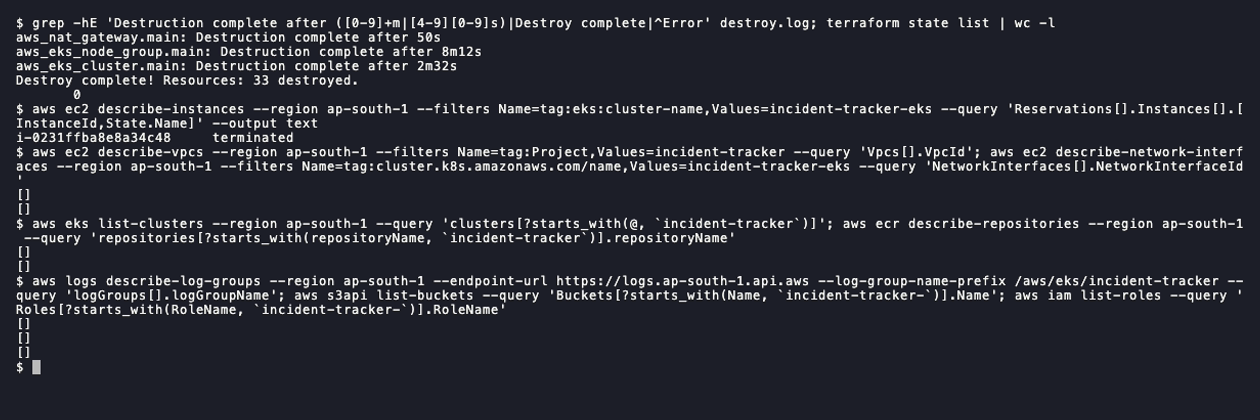
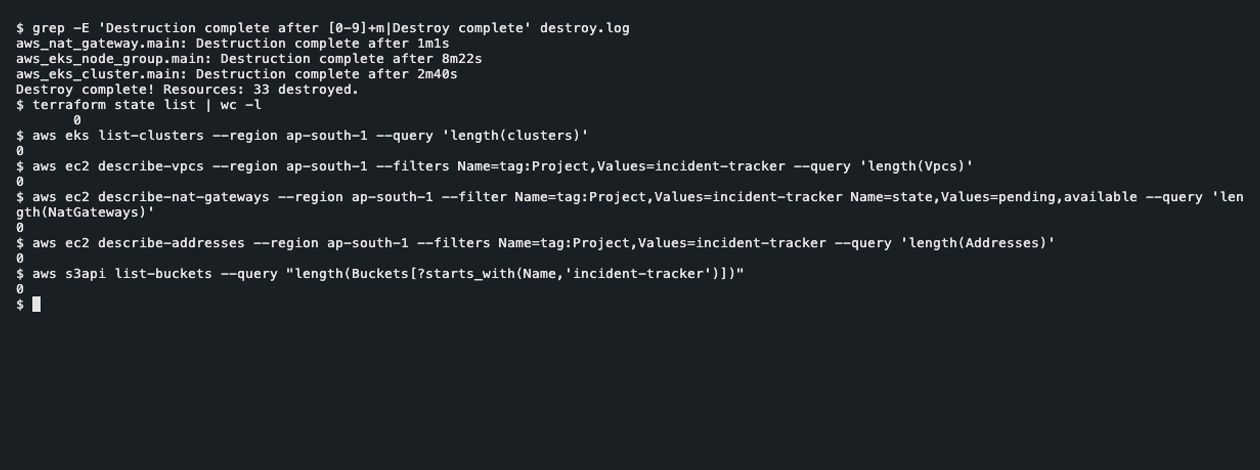
docs: add commit history, gate, prometheus and aws console screenshots
Covers the rubric items the earlier screenshots missed: the commit
history, the gate blocking on a Trivy finding, the Prometheus Targets
page with the backend UP, and the VPC, subnets and EKS cluster in the
AWS Console, with the destroy and clean-up checks retaken from that run.

Changed region(s): [[0.0, 0.031, 0.9905, 0.8976]]

diff --git a/README.md b/README.md
@@ -12,7 +12,7 @@ cluster called `incidents` (Kubernetes v1.37.0), GitHub Actions on this
 repository, and a real AWS account in `ap-south-1` that was applied, checked
 and destroyed in one sitting. The AWS account ID is shown as `<account-id>`.
 
-![The app through the Ingress, build f60f610 deployed by Argo CD](docs/screenshots/01-app.png)
+![The app through the Ingress at incidents.localhost](docs/screenshots/01-app.png)
 
 ## Overview
 
@@ -269,6 +269,14 @@ it.
 
 ![apply timings, masked outputs, the EKS node Ready and the frontend pod](docs/screenshots/04-terraform-apply-eks.png)
 
+The same stack in the AWS Console, in Asia Pacific (Mumbai):
+
+![The VPC in the AWS Console](docs/screenshots/18-aws-console-vpc.png)
+
+![The two public and two private subnets](docs/screenshots/19-aws-console-subnets.png)
+
+![The EKS cluster Active with one node group](docs/screenshots/20-aws-console-eks.png)
+
 ```bash
 terraform destroy
 ```
@@ -387,6 +395,8 @@ already shipped the fix in `4.7.2-r0`. The gate blocked the push and the
 deploy. The frontend Dockerfile now runs `apk upgrade` in the runtime stage and
 switches back to uid 101, and the next scan was clean.
 
+![The security gate blocking the push on the Trivy finding](docs/screenshots/16-ci-security-gate-trivy.png)
+
 ## Monitoring
 
 `monitoring/kube-prometheus-stack-values.yaml` trims the stack for a small
@@ -415,6 +425,8 @@ All five backend pods were scraped while the HPA had them scaled out. The
 reports the same number and the dashboard uses `max()`, not `sum()`.
 
 ![curl /metrics on the backend](docs/screenshots/13-metrics-curl.png)
+
+![Prometheus Targets, both backend pods UP](docs/screenshots/17-prometheus-targets.png)
 
 ![Grafana: incidents by severity, open incidents, time to resolve, request rate, latency, HPA replicas](docs/screenshots/08-grafana-dashboard.png)
 
@@ -550,7 +562,7 @@ Verify: `successfully rolled out`, `HTTP 200`.
 
 | File | What it shows |
 |---|---|
-| [01-app.png](docs/screenshots/01-app.png) | The app through the Ingress after the GitOps promotion |
+| [01-app.png](docs/screenshots/01-app.png) | The app through the Ingress at incidents.localhost |
 | [02-tests-and-compose.png](docs/screenshots/02-tests-and-compose.png) | 15 tests passing, Compose running, non-root containers |
 | [03-helm-and-kubectl.png](docs/screenshots/03-helm-and-kubectl.png) | `helm list`, pods, Services, Ingress, HPA, PVC, metrics |
 | [04-terraform-apply-eks.png](docs/screenshots/04-terraform-apply-eks.png) | Terraform apply on AWS and a pod running on the EKS node |
@@ -564,6 +576,12 @@ Verify: `successfully rolled out`, `HTTP 200`.
 | [12-pytest.png](docs/screenshots/12-pytest.png) | `pytest -v`, 15 passed |
 | [13-metrics-curl.png](docs/screenshots/13-metrics-curl.png) | `curl /metrics` on the backend |
 | [14-terraform-plan.png](docs/screenshots/14-terraform-plan.png) | `terraform init` and `terraform plan` |
+| [15-commit-history.png](docs/screenshots/15-commit-history.png) | Commit history on GitHub |
+| [16-ci-security-gate-trivy.png](docs/screenshots/16-ci-security-gate-trivy.png) | The security gate blocking a push on a Trivy HIGH finding |
+| [17-prometheus-targets.png](docs/screenshots/17-prometheus-targets.png) | Prometheus Targets, both backend pods UP |
+| [18-aws-console-vpc.png](docs/screenshots/18-aws-console-vpc.png) | The VPC in the AWS Console |
+| [19-aws-console-subnets.png](docs/screenshots/19-aws-console-subnets.png) | Two public and two private subnets in the AWS Console |
+| [20-aws-console-eks.png](docs/screenshots/20-aws-console-eks.png) | The EKS cluster Active with one node group |
 
 ## Lessons learned
 
